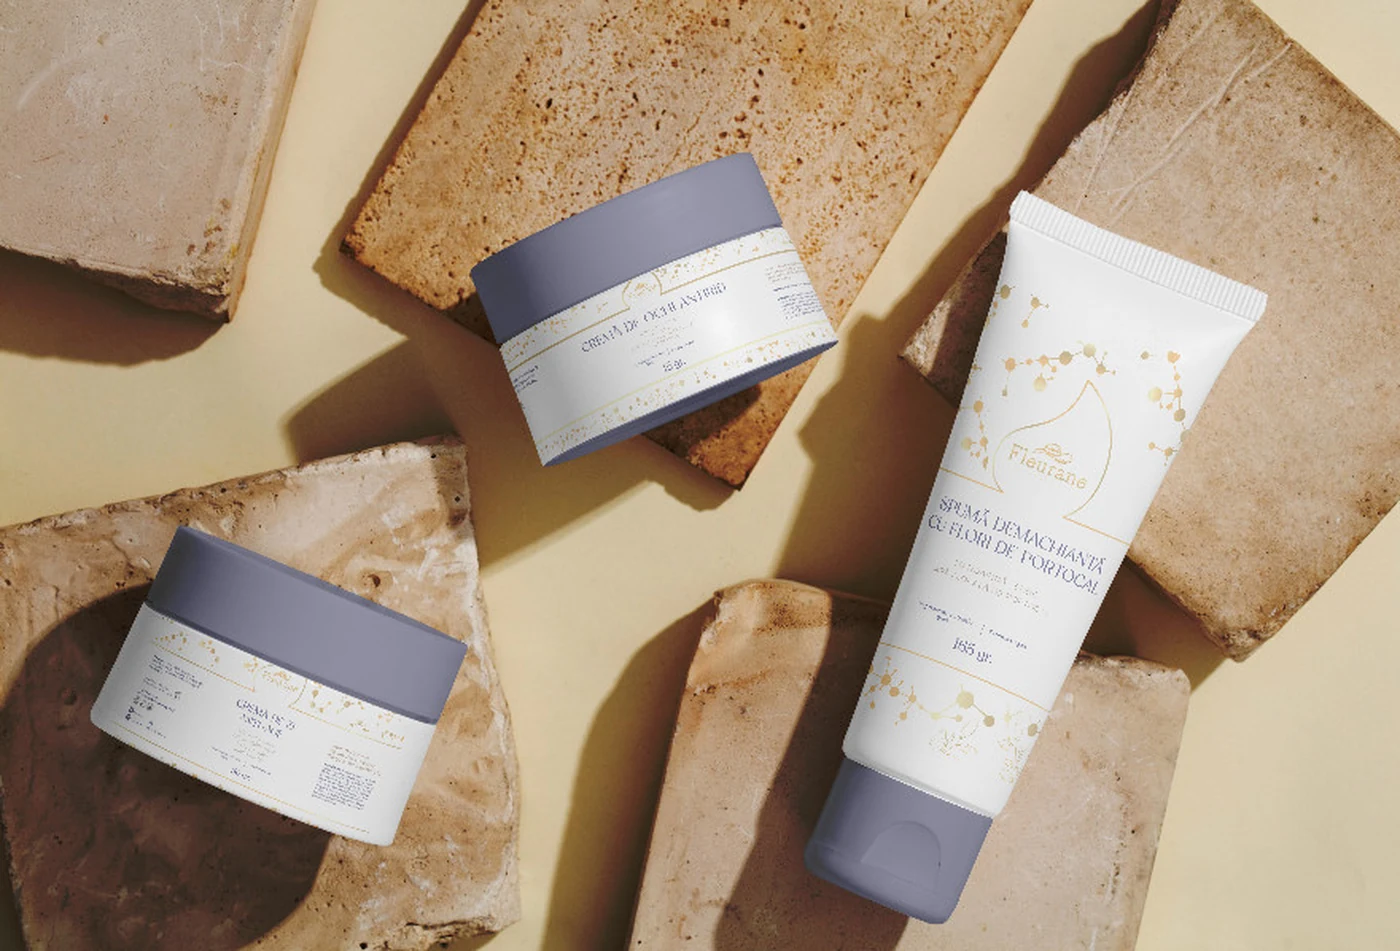
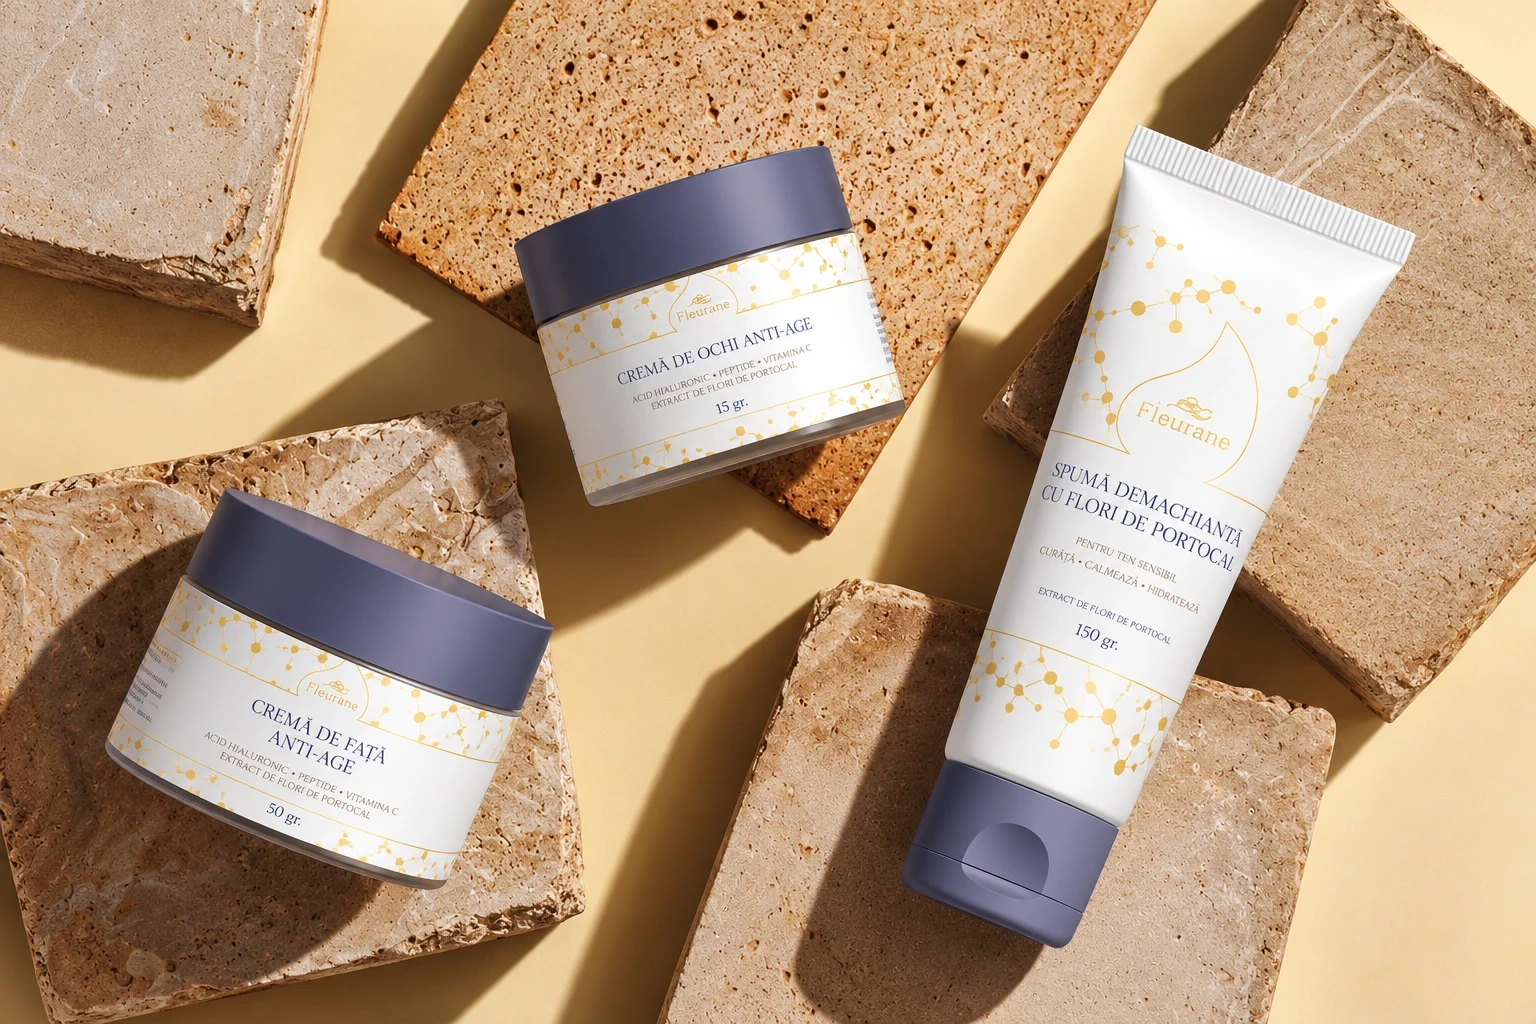
Fleurane: higher quality studio image
Claude-Session: https://claude.ai/code/session_01MojWS2PaHbmFcBdXDkzyEs

diff --git a/src/content/ro/projects.ts b/src/content/ro/projects.ts
@@ -704,7 +704,7 @@ export const projects: Project[] = [
     gallery: [],
     print: [
       { title: "Ingrediente cheie", image: { key: "fleurane-ingredients", alt: "Crema de față anti-age Fleurane, deschisă, cu capacul bleumarin sprijinit de borcan, printre ilustrații cu mandarină, bergamotă, migdale și albăstrele" } },
-      { title: "În studio", image: { key: "fleurane-flatlay", alt: "Borcane și un tub Fleurane pe plăci de piatră teracotă: crema pentru ochi, crema de zi și tubul cu spumă demachiantă" } },
+      { title: "În studio", image: { key: "fleurane-flatlay", alt: "Gama Fleurane pe plăci de piatră teracotă: crema de zi anti-age și crema pentru ochi, în borcane albe cu capace bleumarin, și tubul cu spumă demachiantă cu flori de portocal, pe un fundal cald, crem" } },
     ],
     viewer3d: "fleurane-jar",
     serviceSlugs: ["printed-media", "branding"],

diff --git a/src/content/projects.ts b/src/content/projects.ts
@@ -790,7 +790,7 @@ export const projects: Project[] = [
     gallery: [],
     print: [
       { title: "Key ingredients", image: { key: "fleurane-ingredients", alt: "The Fleurane anti-age face cream, open, with the navy lid leaning on the jar, among illustrations of mandarin, bergamot, almonds and cornflowers" } },
-      { title: "In the studio", image: { key: "fleurane-flatlay", alt: "Fleurane jars and a tube lying on terracotta stone slabs: the eye cream, the day cream and the cleansing foam tube" } },
+      { title: "In the studio", image: { key: "fleurane-flatlay", alt: "The Fleurane range on terracotta stone slabs: the anti-age day cream and the eye cream in white jars with navy lids, and the orange blossom cleansing foam tube, on a warm cream background" } },
     ],
     viewer3d: "fleurane-jar",
     serviceSlugs: ["printed-media", "branding"],

diff --git a/src/content/images.ts b/src/content/images.ts
@@ -358,7 +358,7 @@ export const img = {
   "service-uxui": { src: serviceUxui, w: 1216, h: 941 },
   "fleurane-cover": { src: fleuraneCover, w: 1000, h: 1500 },
   "fleurane-ingredients": { src: fleuraneIngredients, w: 2400, h: 1500 },
-  "fleurane-flatlay": { src: fleuraneFlatlay, w: 1400, h: 951 },
+  "fleurane-flatlay": { src: fleuraneFlatlay, w: 1536, h: 1024 },
   "kurbe-moodboard": { src: kurbeMoodboard, w: 2304, h: 1536 },
   "kdt-workshop-loss": { src: kdtWorkshopLoss, w: 800, h: 1000 },
   "kdt-smt-training": { src: kdtSmtTraining, w: 800, h: 1000 },
